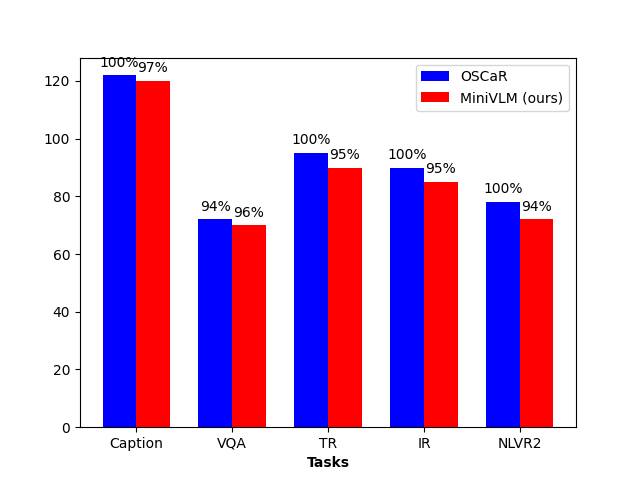
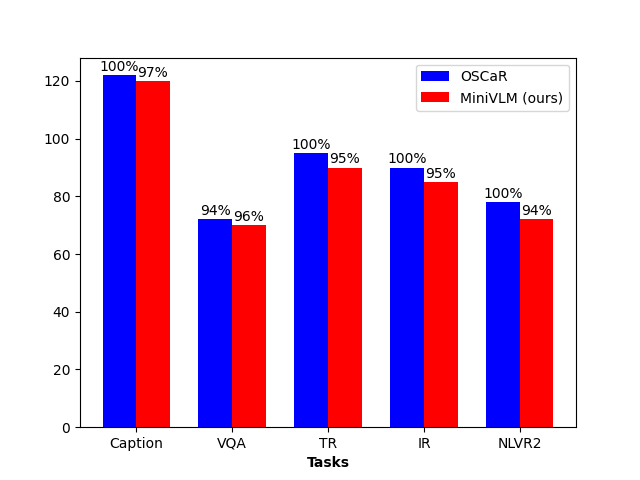
update

diff --git a/clrs/leetcode/utils/proj.py b/clrs/leetcode/utils/proj.py
@@ -24,7 +24,7 @@ def t47_0():
     y_huge = np.array([70, 90, 110, 140])
 
     # Plotting the curves
-    plt.figure(figsize=(6, 4))
+    plt.figure(figsize=(6, 6))
     plt.plot(x, y_base, 'b-*', label='Base')
     plt.plot(x, y_large, 'r-x', label='Large')
     plt.plot(x, y_huge, 'g-o', label='Huge')
@@ -69,8 +69,8 @@ def t47_1():
 
     # Add text on top of the bars
     for i in range(len(tasks)):
-        plt.text(r1[i], OSCaR_scores[i] + 3, f'{OSCaR_proportion[i]}%', ha='center', color='black')
-        plt.text(r2[i], MiniVLM_scores[i] + 3, f'{MiniVLM_proportion[i]}%', ha='center', color='black')
+        plt.text(r1[i], OSCaR_scores[i] + 1.5, f'{OSCaR_proportion[i]}%', ha='center', color='black')
+        plt.text(r2[i], MiniVLM_scores[i] + 1.5, f'{MiniVLM_proportion[i]}%', ha='center', color='black')
 
     # Add xticks on the middle of the group bars
     plt.xlabel('Tasks', fontweight='bold')
@@ -83,7 +83,7 @@ def t47_1():
     plt.show()
 
 
-def t47_2():
+def t47_3():
     # SVG creation for a simplified representation of the UN flag
 
     # SVG Header
@@ -131,5 +131,38 @@ def t47_2():
         svg_file.write(svg_code)
 
 
+def t47_2():
+    return """\begin{document}
+\begin{tikzpicture}
+    % Body
+    \draw [fill=pink] (0,0) ellipse (3cm and 2cm);
+    
+    % Head
+    \draw [fill=pink] (2.5,0.5) circle (1cm);
+
+    % Eyes
+    \draw [fill=white] (2.7,0.7) circle (0.2cm);
+    \draw [fill=black] (2.7,0.7) circle (0.1cm);
+    
+    % Nose
+    \draw [fill=pink] (3,0.3) ellipse (0.3cm and 0.2cm);
+    \draw (2.9,0.3) -- (3.1,0.3);
+    
+    % Ears
+    \draw [fill=pink] (2.2,1.2) ellipse (0.5cm and 0.3cm);
+    \draw [fill=pink] (3,1.5) ellipse (0.5cm and 0.3cm);
+    
+    % Legs
+    \draw [fill=pink] (-1.5,-1.5) circle (0.5cm);
+    \draw [fill=pink] (-0.5,-1.7) circle (0.5cm);
+    \draw [fill=pink] (0.5,-1.7) circle (0.5cm);
+    \draw [fill=pink] (1.5,-1.5) circle (0.5cm);
+    
+    % Tail
+    \draw [pink, thick] (1,-1) to [out=90,in=180] (1.5,-0.5) to [out=0,in=180] (2,-1);
+\end{tikzpicture}
+\end{document}"""
+
+
 if __name__ == "__main__":
-    t47_2()
+    t47_0()

diff --git a/clrs/leetcode/T2719.py b/clrs/leetcode/T2719.py
@@ -1,0 +1,41 @@
+# -*- coding: UTF-8 -*-
+"""
+    @Author : Frank.Ren
+    @Project : python_practice 
+    @Product : PyCharm
+    @createTime : 2024/1/16 10:17 
+    @Email : e1143935@u.nus.edu
+    @github : https://github.com/frankRenlf
+    @Description : hard
+"""
+import math
+from functools import cache
+
+
+def binary_digit_sum(n):
+    return bin(n).count('1')
+
+
+class Solution:
+    def count(self, num1: str, num2: str, min_sum: int, max_sum: int) -> int:
+        m = len(num2)
+        up_limit = list(map(int, num2))
+        down_limit = list(map(int, num1.zfill(m)))
+        mod = 10 ** 9 + 7
+
+        @cache
+        def f(i=0, s=0, valid=False, dlimit=True, ulimit=True):
+            if i == m:
+                return int(valid and min_sum <= s <= max_sum)
+            down = down_limit[i] if dlimit else 0
+            up = up_limit[i] if ulimit else 9
+            ans = 0
+            for d in range(down, up + 1):
+                ans = (ans + f(i + 1, s + d, valid or d != 0, dlimit and d == down, ulimit and d == up)) % mod
+            return ans
+
+        return f()
+
+# if __name__ == "__main__":
+#     sol = Solution()
+#     (sol.count(num1="1", num2="5", min_num=1, max_num=5))
